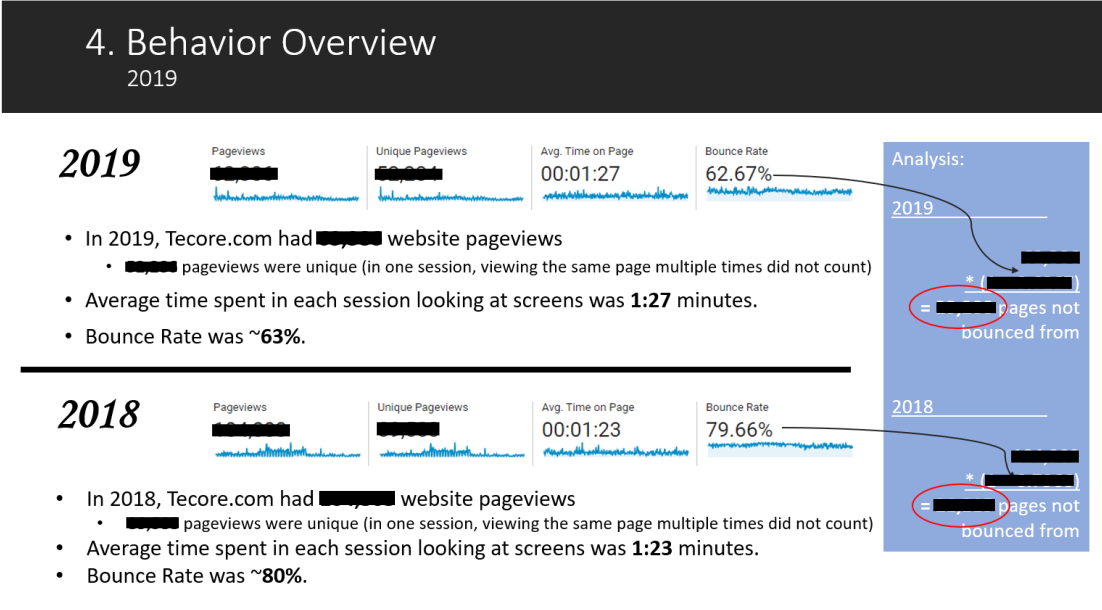
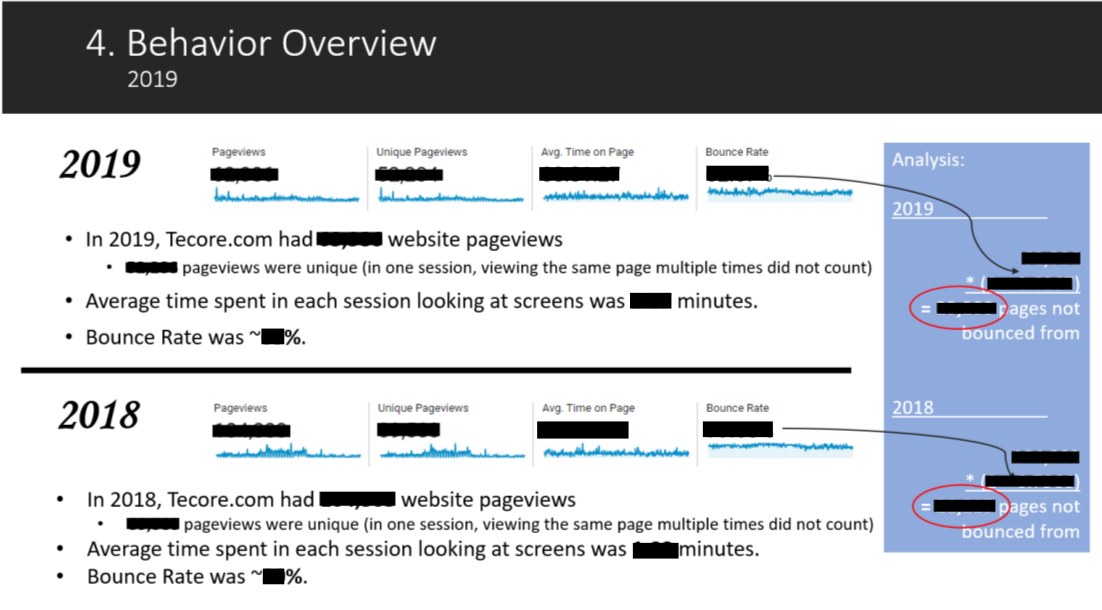
GA Content writing

diff --git a/index.html b/index.html
@@ -225,7 +225,7 @@
                     <div class="col-md-6 text-left">
                         <h3>Website Design</h3>
                         <hr>
-                        <p>At Tecore Networks, I was responsible for the redesign and creation of our <a target="_blank" href="http://www.tecore.com">website</a> in WordPress. I used a combination of a website page builder (WPBakery) and custom CSS/JS snippets to achieve our team's design goals. Our goal was a website that more effectively communicated our purpose, was mobile friendly, and was intuitive to navigate. <strong>Slide 1</strong> and <strong>Slide 2</strong> show the previous home page and the redesigned one. The biggest update was a complete overhaul of our <a target="_blank" href="http://www.tecore.com">home page</a>, and there were positive boosts in most key metrics in the first three months (<strong>Slide 3</strong>).</p>
+                        <p>At Tecore Networks, I was responsible for the redesign and creation of our <a target="_blank" href="http://www.tecore.com">website</a> in WordPress. I used a combination of a website page builder (WPBakery) and custom CSS/JS snippets to achieve our team's design goals. Our goal was a website that more effectively communicated our purpose, was mobile friendly, and was intuitive to navigate. <strong>Slide 1</strong> and <strong>Slide 2</strong> show the previous home page (<a target="_blank" href="images/home-page-old-full.png">full size image</a>) and the redesigned one (currently live as of March 12, 2020), which was the biggest redesign and a complete overhaul of our <a target="_blank" href="http://www.tecore.com">home page</a>, and there were positive boosts in most key metrics in the first three months (<strong>Slide 3</strong>).</p>
                         <p>At Phantasy Tour, I was responsible for creating landing pages for <a target="_blank" href="https://phantasy.cards/">Phantasy Tour Trading Cards</a> - one of our new promotional products, and <a target="_blank" href="https://contests.phantasytour.com/">Phantasy Tour Contests</a> - a concert ticket giveaway platform, both built in WordPress with Elementor.</p>
                     </div>
 
@@ -281,7 +281,7 @@
                             <li><p><strong>Datasheet PDF downloads (Micro Goal)</strong> - to identify which products specifications visitors are interested in</p></li>
                             <li><p><strong>Clicks to Product Inquiry page (Macro Goal)</strong> - to identify which page potential leads are coming from</p></li>
                             <li><p><strong>Home Page Widget interaction</strong> - to identify which products visitors were most interested in getting more info on, on the front page</p></li>
-                            <li><p><strong>Notification Bar interaction</strong> - to identify which popup notifications users were more likely to click on (newsletter, upcoming events, press releases, and others)</p></li>
+                            <li><p><strong>Notification Bar interaction</strong> - to identify which pop-up notifications users were more likely to click on (newsletter, upcoming events, press releases)</p></li>
                         </ul>
                     </div>
 
@@ -339,20 +339,27 @@
                         <ol class="carousel-indicators">
                             <li data-target="#Indicators-3" data-slide-to="0" class="active"></li>
                             <li data-target="#Indicators-3" data-slide-to="1"></li>
+                            <li data-target="#Indicators-3" data-slide-to="2"></li>
                         </ol>
                         <div class="carousel-inner">
                             <div class="carousel-item active">
                             <img class="d-block w-100" src="images/analytics-example-1.png" alt="Slide 1">
                             <div class="carousel-caption">
-                                <h5>2018-2019 Website Traffic Analysis</h5>
+                                <h5>2018-2019 Website Behavior Overview</h5>
                                 <p>Example 1</p>
                             </div>
                             </div>
                             <div class="carousel-item">
-                            <img class="d-block w-100" src="images/img_640x360.png" alt="Slide 2">
+                            <img class="d-block w-100" src="images/analytics-example-2.png" alt="Slide 2">
                             <div class="carousel-caption">
-                                <h5>Google Analytics/Tag Manager Integration</h5>
-                                <p>All events are consolidated in the Behavior Reports section of GA.</p>
+                                <h5>2018-2019 Website Traffic Acquisition Report - Bounce Rate</h5>
+                                <p>Example 2</p>
+                            </div>
+                            </div>
+                            <div class="carousel-item">
+                            <img class="d-block w-100" src="images/analytics-example-3.png" alt="Slide 2">
+                            <div class="carousel-caption">
+                                <h5>Content Efficiency Analysis - June 2020</h5>
                             </div>
                             </div>
                         </div>
